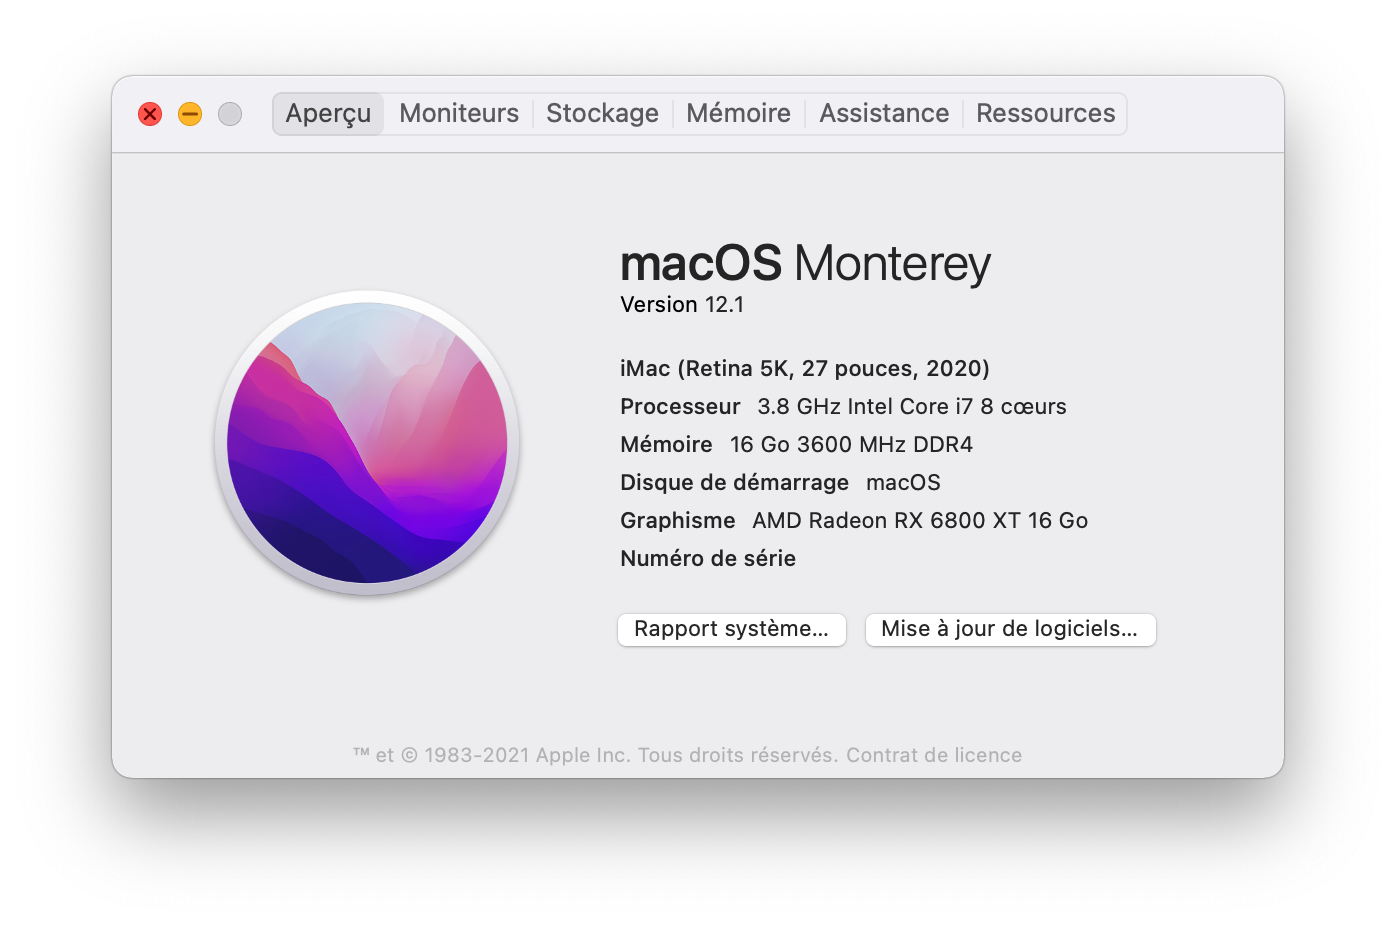
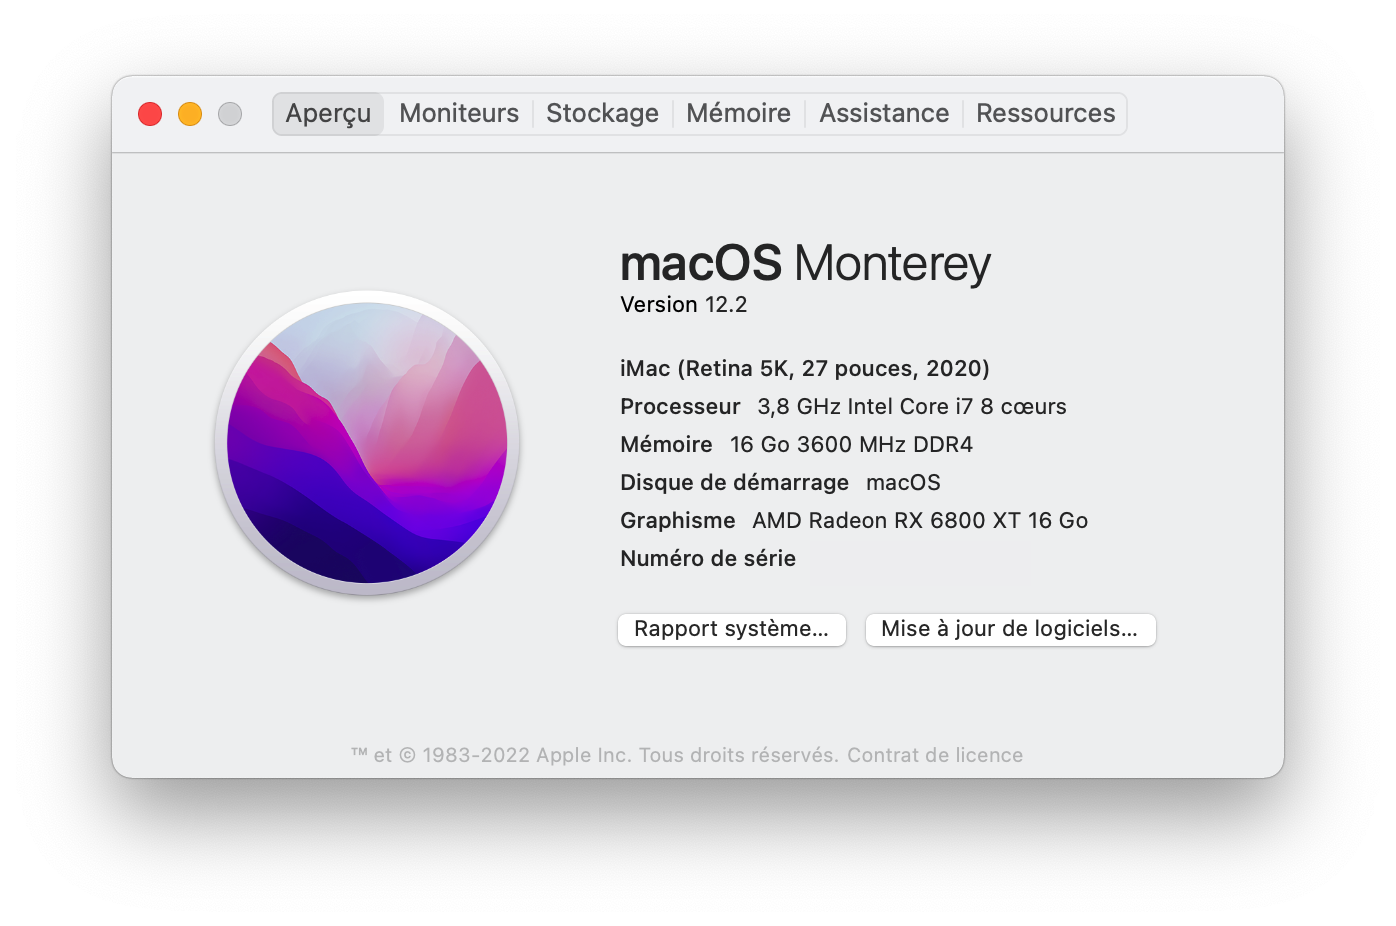
Update README.md

Changed region(s): [[0.154, 0.3931, 0.2464, 0.514], [0.2772, 0.4838, 0.3696, 0.5443], [0.2772, 0.7862, 0.3696, 0.8164]]

diff --git a/README.md b/README.md
@@ -2,13 +2,18 @@
 
 This repository contains WIP configuration files for an OpenCore build with **Gigabyte Z490 Vision G** motherboard and **Intel i7-10700k** *Comet Lake-S* desktop CPU. Compiled with **OpenCore (0.7.7)**.
 
+Latest revision is made for macOS Monterey, based on [5T33Z0](https://github.com/5T33Z0/Gigabyte-Z490-Vision-G-Hackintosh-OpenCore) repo. I made little changes from his proposition to fix audio detection, and framebuffer patch for iGPU.
+
 Particularities of this configuration :
 
 - I have a PCIe Wireless adapter AC1300 (**Archer T6E**). If you don't need kext for it, just remove ```Airport*.kext``` kexts. Otherwise, if you came here because you have this adapter, just copy the kexts files, and integrate them in your config file. It is that simple.
-- I have an compatible **AMD Radeon RX 6800 XT** GPU.
-- **Intel I225-V Ethernet Controller** is not working on macOS Monterey. Stay on macOS Big Sur if you do not have an alternative. 
+- I have an compatible **AMD Radeon RX 6800 XT** GPU, the framebuffer patch (in DeviceProperties) is only relevant for iGPU users (I did not tested it that much on Monterey since I have a dGPU).
+- **Intel I225-V Ethernet Controller** is not working on macOS Monterey. Stay on macOS Big Sur if you do not have an alternative.
+- Sleep is broken for me (but it may be due to one of my USB device, I'll investiguate)
 
-So far so good using these configuration files for **Monterey (12.1)**.
+So far so good using these configuration files for **Monterey (12.2)**.
+
+**⚠ This README.md is only relevant for the Monterey configuration. I will not test older revisions of macOS**.
 
 <p align="center"><img src="./Images/about.png" alt="about_this_mac" width="698" /></p>
 
@@ -26,24 +31,23 @@ So far so good using these configuration files for **Monterey (12.1)**.
 ## Working
 
 - **Audio *(Realtek ALC1220-VB / HDMI Audio)***
-  Using proper Device Property, and ```AppleALC.kext``` and ```FakeID.kext``` kexts :
+  Using proper Device Property, and ```AppleALC.kext```. FakeID is not required anymore (it's even broken on Monterey) :
 
   ```xml
   <key>PciRoot(0x0)/Pci(0x1F,0x3)</key>
   <dict>
-  	<key>device-id</key>
-  	<data>cKEAAA==</data>
-  	<key>layout-id</key>
-  	<data>BwAAAA==</data>
+    <key>device_type</key>
+    <string>Audio device</string>
+    <key>layout-id</key>
+    <integer>7</integer>
+    <key>model</key>
+    <string>Realtek ALC1220-VB</string>
   </dict>
   ```
 
-  Fixing HDMI audio with kext ```FakePCIID_Intel_HDMI_Audio.kext```.
-
 - **USB**
-  All ports working, thanks to **[samuel21119](https://github.com/samuel21119)** that worked on the [USB map of the Z490 Vision G](https://github.com/samuel21119/Intel-i9-10900-Gigabyte-Z490-Vision-G-Hackintosh/blob/master/USB-Port-Configuration.md). I redid the USBMap with [corpnewt/USBMap](https://github.com/corpnewt/USBMap) tool, using my *iMac20,1* SMBIOS and did not set *HS02* to internal port as it is connected on the front pannel in my case. I disabled *HS03*, *SS03*, *HS01* and *HS12* as Samuel did. Pay attention that F_USB1 and F_USB2 is a hub mapped to *HS02* unlike Samuel shows. See **[OMandaloriano](https://github.com/OMandaloriano)** [issue](https://github.com/samuel21119/Intel-i9-10900-Gigabyte-Z490-Vision-G-Hackintosh/issues/11) for more details and updated Map.
-  *TLDR:* Use ```USBMap.kext``` and disable ```USBInjectAll.kext``` (Compiled it for *iMac20,1* SMBIOS).
-
+  USB Ports are mapped via ACPI (thanks to [5T33Z0](https://github.com/5T33Z0/Gigabyte-Z490-Vision-G-Hackintosh-OpenCore) again). No kext required.
+  
 - **Ethernet *(Intel I225-V 2.5GbE LAN)*** (Not compatible with macOS Monterey) 
   Using **[samuel21119](https://github.com/samuel21119)** custom kext ```FakePCIID_Intel_I225-V.kext```, and Device property:
 
@@ -114,7 +118,7 @@ DP and HDMI are working fine after patching the Framebuffer. Keep in mind that t
   Using kexts ```Airport*.kext```.
 
 - **Bluetooth *(Asus USB-BT400)***
-  Native
+  Using ```BlueToolFixup.kext``` from [BrcmPatchRAM](https://github.com/acidanthera/BrcmPatchRAM).
 
 - **Handoff/iMessages/Apple services**
   Native
@@ -129,18 +133,20 @@ Working natively. Change default startup disk from the macOS settings.
 - **Sleep Mode**
 
   - Note that you need to unplug the USB cable of *Corsair iCue H100i RGB PRO XT* CPU Cooler otherwise you'll get instant wake after sleep with the following error:
+    ```shell
+    Wake from Normal Sleep [CDNVA] : due to XDCI CNVW PEG1 PEG2 RP04/UserActivity
+    ```
+    To get the log of Sleep/Wake events type this in a terminal:
+    ```shell
+    pmset -g log | grep -e "Sleep.*due to" -e "Wake.*due to"
+    ```
+    The USB cable of the CPU Cooler is only needed if you want to tune the fan speed and the colors with the software iCue. So this is not so much of a deal. I didn't found any hacks to get this working with the USB link.
 
-  ```shell
-  Wake from Normal Sleep [CDNVA] : due to XDCI CNVW PEG1 PEG2 RP04/UserActivity
-  ```
-  To get the log of Sleep/Wake events type this in a terminal:
-  ```shell
-  pmset -g log | grep -e "Sleep.*due to" -e "Wake.*due to"
-  ```
-
-  The USB cable of the CPU Cooler is only needed if you want to tune the fan speed and the colors with the software iCue. So this is not so much of a deal. I didn't found any hacks to get this working with the USB link.
-
-  - Had also an instant wake after doing the USBMap. Adding ```SSDT-GPRW.aml``` and associated patch documented in **[dortania](https://github.com/dortania)** [Post-Instal Guide](https://dortania.github.io/OpenCore-Post-Install/usb/misc/instant-wake.html) fixed the problem.
+  - Even after doing this I get an instant wake and sleep loop:
+    ```shell
+    DarkWake from Normal Sleep [CDN] : due to XDCI CNVW PEG2 PEG3 RP04/ Using AC
+    ```
+    If you have any suggestion,  please let me know !
 
 - **External sound card *(Zoom Livetrack L-12)***
   Using [macOS driver](https://zoomcorp.com/en/us/digital-mixer-multi-track-recorders/digital-mixer-recorder/livetrak-l-12/l-12-support/) for Zoom livetrack L-12 in order to use multitrack recording, and USB transfers between macOS and the device. Don't forget to set the switch to *Class Compilant mode* at the back of the device.
@@ -178,8 +184,6 @@ Don't forget to set up your XMP profile correctly in *Tweaker* if you have high 
 **I don't recommand F20b BIOS update because it breaks sleep mode and I also found it slower than F8 at startup. I am not sure why, so unless you have a 11th gen Intel processor, you can just stay at F8c (at least before Gigabyte make another update after F20b). F8c enables Resizable Base-Adress (BAR) so you good to go with it at least.**
 
 If using iGPU, since **Gigabyte F8 BIOS Update**, in order to set ```Initial Display Output``` to ```IGFX``` you need to enable ```CSM Support```. Just enable ```CSM Support```, set ```Initial Display Output``` to ```IGFX```, then disable ```CSM Support``` (thanks [azhinu](https://github.com/azhinu) for the little [trick](https://github.com/augstb/Hackintosh-Intel-i7-10700k-Gigabyte-Z490-Vision-G/issues/1)).
-
-In order to fix sleep mode showing green screen at wake, I found that adding ```-wegnoegpu``` to boot arguments did the trick, but I'm not 100% sure about it so I'll appreciate feedback. It might not be necessary if you have a dGPU.
 
 ## Acknowledgments
 
